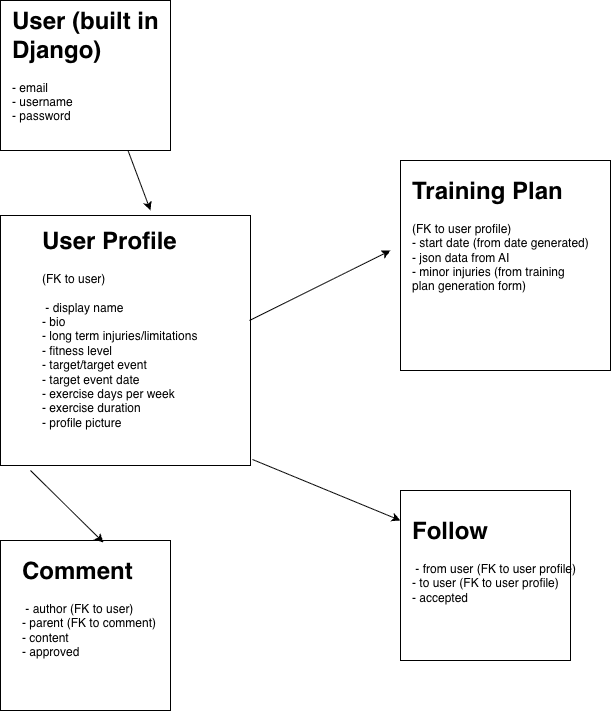
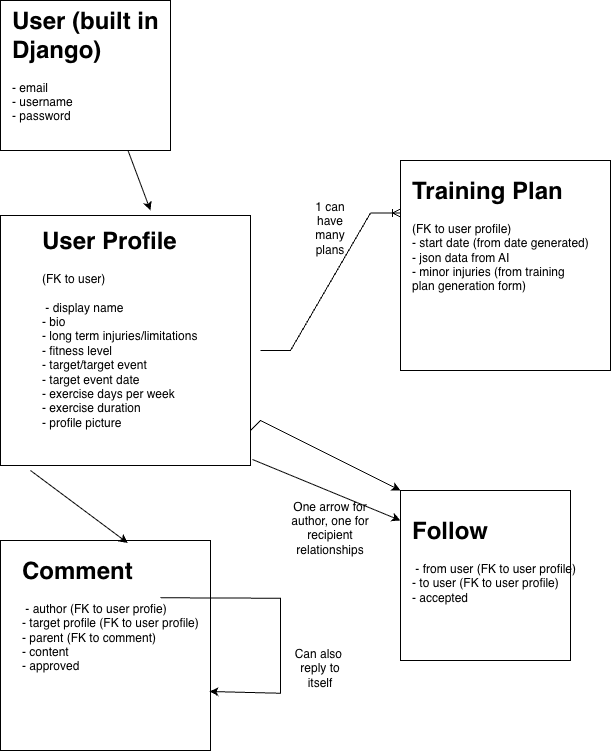
DOCS final updates and spell check

diff --git a/fitness/templates/profiles/profile_detail.html b/fitness/templates/profiles/profile_detail.html
@@ -8,8 +8,8 @@
 
 <div class="card p-4 mb-4">
     <div>
-    <h1>{{ profile.display_name|default:profile.user.username }}</h1>
-        </div>
+        <h1>{{ profile.display_name|default:profile.user.username }}</h1>
+    </div>
     <div class="d-flex align-items-center mb-3">
        <img src="{{ profile.get_profile_picture_url }}" class="card-img-top mx-auto mt-3 profile-picture" alt="{{ profile.display_name }}">
     </div>
@@ -46,7 +46,7 @@
    {% if pending_follow_requests %}
     <div class="card my-4" id="follow-requests-card">
         <div class="card-header">
-            <h5 class="mb-0">Pending Follow Requests</h5>
+            <h2 class="mb-0">Pending Follow Requests</h2>
         </div>
         <ul class="list-group list-group-flush">
             {% for req in pending_follow_requests %}
@@ -82,7 +82,7 @@
 {% endif %}
 
 <div class="card shadow-sm p-4 mb-4">
-    <h3>Training Plans</h3>
+    <h2>Training Plans</h2>
     {% if user.is_authenticated and user == profile.user %}
         <a class="normal-link" href="{% url 'previous_plans' %}">View All Plans ({{ previous_plans|length }})</a>
     {% endif %}
@@ -90,14 +90,15 @@
     <br>
         <div class="row"> 
             {% for plan in previous_plans|slice:":3" %}
-            <div class="col-12 col-md-6 col-lg-4 mb-3"> <div class="card border-primary h-100">
+            <div class="col-12 col-md-6 col-lg-4 mb-3"> 
+                <div class="card border-primary h-100">
                     <div class="card-body d-flex flex-column">
-                        <h5 class="card-title">
+                        <h3 class="card-title">
                             {% if plan.target_event %}{{ plan.target_event }}{% else %}{{ plan.plan_title|default:"Training Plan" }}{% endif %}
-                        </h5>
-                        <h6 class="card-subtitle mb-3 text-muted">
+                        </h3>
+                        <h4 class="card-subtitle mb-3 text-muted">
                             Start Date: {{ plan.start_date|date:"M d, Y" }}
-                        </h6>
+                        </h4>
                         <p class="card-text">
                             {{ plan.plan_summary|default:"Summary being generated or not available."|truncatechars:100 }}
                         </p>
@@ -113,7 +114,7 @@
 </div>
 
 <div class="card shadow-sm p-4 mb-4">
-    <h3>Chat to Each Other</h3>
+    <h2>Chat to Each Other</h2>
     
     {% if can_comment %}
     <div style="margin-bottom: 20px;">
@@ -134,7 +135,7 @@
                 {% if comment.approved or profile.user == user %}
                     <li class="list-group-item">
                         <div>
-                            <h4>{{ comment.author.display_name }}</h4>: {{ comment.content }}
+                            <h3>{{ comment.author.display_name }}</h3>: {{ comment.content }}
                             <p class="text-muted small">{{ comment.created_at|date:"M d, Y H:i" }}</p>
                         </div>
 

diff --git a/strideai/templates/home.html b/strideai/templates/home.html
@@ -6,7 +6,7 @@
 <div class="my-4">
   <h1 class="display-4, big-heading">Welcome to StrideAI</h1>
   <p class="lead">Get fit together.</p>
-  <p>Use powerful AI to generate bespoke training plans that really work for you, no matter what your limitations are.</p>
+  <p>Use powerful AI to generate bespoke training plans that really work for you, no matter what your limitations are. Simply create yourself a profile, find your friends and generate plans.</p>
 </div>
 
 <!--Featured Profiles-->

diff --git a/fitness/apps.py b/fitness/apps.py
@@ -4,3 +4,9 @@ from django.apps import AppConfig
 class FitnessConfig(AppConfig):
     default_auto_field = "django.db.models.BigAutoField"
     name = "fitness"
+
+
+# imports signals so profiles are created/updated automatically
+def ready(self):
+    import fitness.signals
+    _ = fitness.signals

diff --git a/strideai/settings.py b/strideai/settings.py
@@ -53,7 +53,7 @@ INSTALLED_APPS = [
     "cloudinary_storage",
     "cloudinary",
     "django_celery_results",
-    "fitness",
+    "fitness.apps.FitnessConfig",  # means signals are imported
     "crispy_forms",
     "crispy_bootstrap5",
 ]

diff --git a/docs/README.md b/docs/README.md
@@ -1,4 +1,6 @@
-# stride
+# StrideAI
+
+![Homepage shown on desktop](docs-images/home-desktop.png)
 
 ## Table of Contents
 
@@ -12,7 +14,7 @@
 #### g. Features
 #### h. User Interface Design Decisions
 
-### 2. Database Desgin
+### 2. Database Design
 #### a. Schema
 #### b. ERD Diagram
 #### c. User Flow
@@ -27,7 +29,7 @@
 #### b. Deployment to Heroku
 #### c. Clone the Code Locally
 
-### 5. Testing (See seperate Testing.md file)
+### 5. Testing (See separate Testing.md file)
 
 ### 6. Security Settings
 
@@ -106,7 +108,7 @@ I tried to keep the design of the site fairly simple and this is reflected in th
 
  - Note that this page changes, if you are not signed in it shows all profiles, but in the same design as the connections page.
 
-[My profile Page](docs-images/wireframes/my-profile-page.png)
+[My Profile Page](docs-images/wireframes/my-profile-page.png)
 
 [Training Plan Detail Page](docs-images/wireframes/training-plan-detail.png)
 
@@ -177,7 +179,7 @@ I tried to keep that data as simple as possible. This project could be quite com
 
 I have drawn an ERD diagram to explore the relationships between the different sets of data. I have tried to keep it simple, the different fields are broken down in more detail in the schemas.
 
-![ERD Diagram](docs-images/ERD-stride.png.png)
+![ERD Diagram](docs-images/ERD-stride.png)
 
 
 ## 3. Technologies Used
@@ -238,21 +240,21 @@ Note that if you want to use local deployment this needs 3 steps, in 3 seperate 
 
 ### c. Clone the Code Locally
 
-In order to undertake any work on the site the code can be cloned locally from github. The url to do this is [gituhb code url](https://github.com/christinalicence/stride.git). You can enter this to VSCode to clone it. 
+In order to undertake any work on the site the code can be cloned locally from github. The url to do this is [github code url](https://github.com/christinalicence/stride.git). You can enter this to VSCode to clone it. 
 
 This project was set up in a virtual environment (.venv), with all the dependencies listed in requirements.txt. The API keys, secret keys and database url are all in my gitignore and heroku's config vars.
 
 ## 5. Testing (See separate Testing.md file)
 
-See Testing.md file for an expalanation of how the site has worked against the user stories, the automated testing strategy and manual testing that has been carried out.
+See Testing.md file for an explanation of how the site has worked against the user stories, the automated testing strategy and manual testing that has been carried out.
 
 ## 6. Security Settings
 
-The API key for Anthropic, databse url, Django secret key and Redis key are all stored in .env and have been included in my gitignore, so not uploaded to github. Debug is set to false in settings.py.
+The API key for Anthropic, database url, Django secret key and Redis key are all stored in .env and have been included in my gitignore, so not uploaded to github. Debug is set to false in settings.py.
 
-A security concern tht is ongoing is not having email verification (so people could make multiple accounts and overuse the API leading to high costs). This is something I would look to add in the future.
+A security concern that is ongoing is not having email verification (so people could make multiple accounts and overuse the API leading to high costs). This is something I would look to add in the future.
 
-7. ## Credits
+## 7. Credits
 
 All profile images were generated by Apple image playground.
 
@@ -260,7 +262,7 @@ Color scheme image was generated by chatpgpt.
 
 The favicon was generated by [favicon.io](https://favicon.io/)
 
-8. ## Improvements for Future Releases
+## 8. Improvements for Future Releases
 
 - The biggest plan for the future of this site is to make it compatible with smart watches so that you can save your workouts to the watches and the watches can evaluate your performance during the workouts. This is why the training plans are returned in a json format from the AI, to allow them to be uploaded to a watch or other tracker. You could also do a lighter version by allowing syncing with a phone app.
 
@@ -268,7 +270,7 @@ The favicon was generated by [favicon.io](https://favicon.io/)
 
 - I'd like to allow comments to contain photos and for all photos associated with someone's profile to be saved in an area that is easy to access.
 
-- I'd like to be able to widen the comments to include ing on people's plans.
+- I'd like to be able to widen the comments to include commenting on people's plans.
 
 - I'd like to put proper email verification on to the program to improve security. This is a feature I would add before making the website live.
 
@@ -277,7 +279,7 @@ The favicon was generated by [favicon.io](https://favicon.io/)
 - I would also improve the visual look of the site with more photos and graphics.
 
 
-9. ## Insights from Developing This Project
+## 9. Insights from Developing This Project
 
 Using the Anthropic AI has been a really interesting learning experience. I have found that it is a little temperamental to work with and you have to refine your code to different outcomes it might give - an example of this is that it is very inconsistent with how it records rest days. Sometimes it says 'rest days' and sometimes it says 0 or null. I have had to incorporate these different outcomes in to my code to give a consistent user experience. Ultimately to solve this I gave the AI more specific instructions on how to record a rest day.
 
@@ -285,7 +287,7 @@ Another aspect I hadn't really thought about before is the amount of information
 
 The other thing I learnt during the course of this project was about planning and using test driven development. Using TDD helps to better plan functions which helps me to be more direct with my code.
 
-10. ## Concerns for the future/if I was to put this project live
+## 10. Concerns for the future/if I was to put this project live
 
 The thing that would worry me most about putting this project live is the potential for people to make lots of plans and build up the costs for using the AI API. I would look to solve this issue before making the site live.
 

diff --git a/docs/Testing.md b/docs/Testing.md
@@ -43,7 +43,7 @@ All the HTML pages were passed the [W3C HTML Validation Tester](https://validato
 
 After some research I found it better to enter the urls in to the validator rather than the code as it wasn't recognising some of the Django tags.
 
-All pages passed when entered this way.
+All pages passed when entered this way. There were some 'trailing slash' reports after I used a code formatter, but I chose to ignore these.
 
 ![Error free html test](docs-images/html-validator.png)
 
@@ -55,7 +55,7 @@ The site passed the [W3C CSS Validation Test](https://jigsaw.w3.org/css-validato
 
 #### Python Standards
 
-I made sure that all my code was to [PEP8](https://peps.python.org/pep-0008/) standards by downloading Flake8 and Black. I had several 'long line' errors to fix, but worked through them! I restricted my line limit to 88 characters, with shorter docstring limits of 72. The limit is set in my settings.json to work with Black. After taking a look at the PEP8 guidelines I felt this was appropriate given their section on line length and some people prefering longer lines. I checked the docstrings manually.
+I made sure that all my code was to [PEP8](https://peps.python.org/pep-0008/) standards by downloading Flake8 and Black. I had several 'long line' errors to fix, but worked through them! I restricted my line limit to 88 characters, with shorter docstring limits of 72. The limit is set in my settings.json to work with Black. After taking a look at the PEP8 guidelines I felt this was appropriate given their section on line length and some people preferring longer lines. I checked the docstrings manually.
 
 I initially set Black to save on format, but found this caused issues with my HTML pages, which it also formatted. My solution to this was to create a settings.json file and disable the setting to reformat on save. In order to reformat any file in the project you now run Black file-path/yourfile in the terminal.
 
@@ -66,7 +66,7 @@ The pages were tested using Google Lighthouse for performance, accessibility and
 Here is the report for the home page
 ![Google Lighthouse Report](docs-images/lighthouse-home.png)
 
-Lighthouse did uncover an issue on my traning plans where the button colours used didn't have sufficient contrast.
+Lighthouse did uncover an issue on my training plans where the button colours used didn't have sufficient contrast.
 
 ![buttons in old colour](docs-images/button-contrast.png)
 
@@ -124,6 +124,30 @@ There are also automated tests for the search functions, including if the search
 
 The site has been tested using Lighthouse, Android phones, iphones and an ipad. No issues were found for responsiveness, I kept this simple by using Bootstrap responsive setups.
 
+I am not going to link all the images here, but for the home page it adapts as below
+
+Desktop
+![Homepage shown on Desktop](docs-images/home-desktop.png)
+
+ipad
+![Homepage shown on ipad](docs-images/home-ipad.png)
+
+iphone
+![Homepage shown on iphone](docs-images/home-iphone.png)
+
+The plans are as below
+
+Desktop
+![Plan page shown on desktop](docs-images/plan-desktop.png)
+
+ipad
+![Plan page shown on ipad](docs-images/plan-ipad.png)
+
+iphone
+![Plan page shown on iphone](docs-images/plan-iphone.png)
+
+Because the site is built using Bootstrap it adapts in a similar way across the different pages.
+
 ### e. User Testing/Feedback
 
 #### First Feedback
@@ -143,11 +167,11 @@ I received quite a lot of user feedback when it was tested about 60% through dev
 
 These were all fixed.
 
-I decided to elminate some fields to make the input simpler - weight, height, age and gender. The site was too complicated, making the user flow difficult.
+I decided to eliminate some fields to make the input simpler - weight, height, age and gender. The site was too complicated, making the user flow difficult.
 
 #### Second Feedback
 
-I did another bit of user testing when I around 95% through development. Again there were some suggestions for improvement.
+I did another bit of user testing when I was around 95% through development. Again there were some suggestions for improvement.
 
 - The entry for the 'exercise duration' was free text, which meant that illogical amounts could be entered. I fixed this by turning it in to a dropdown.
 
@@ -165,7 +189,7 @@ All automated tests are passing when run.
 
 ![the terminal showing passing tests](docs-images/automated-tests.png)
 
-The test cover almost all the code, apart from the AI output, which I haven't found a robust test for. This needs to be done manually.
+The tests cover almost all the code, apart from the AI output, which I haven't found a robust test for. This needs to be done manually.
 
 ## 4. Test Driven Development
 
